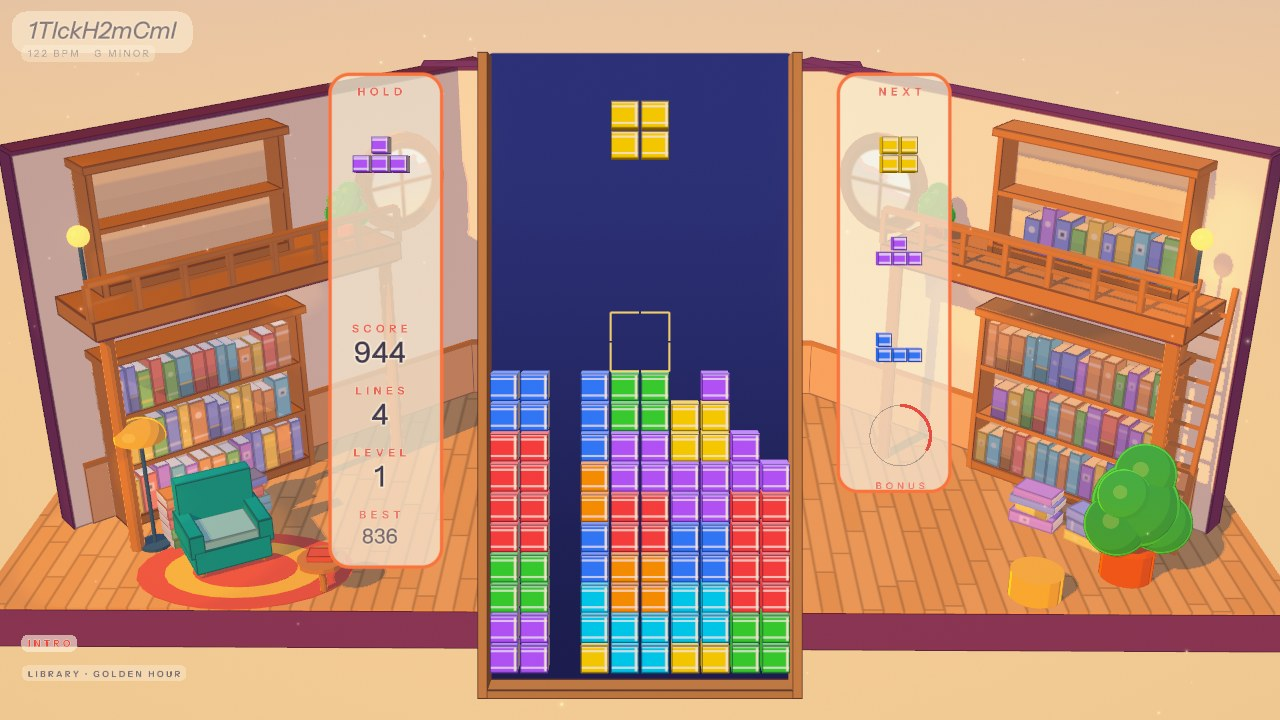
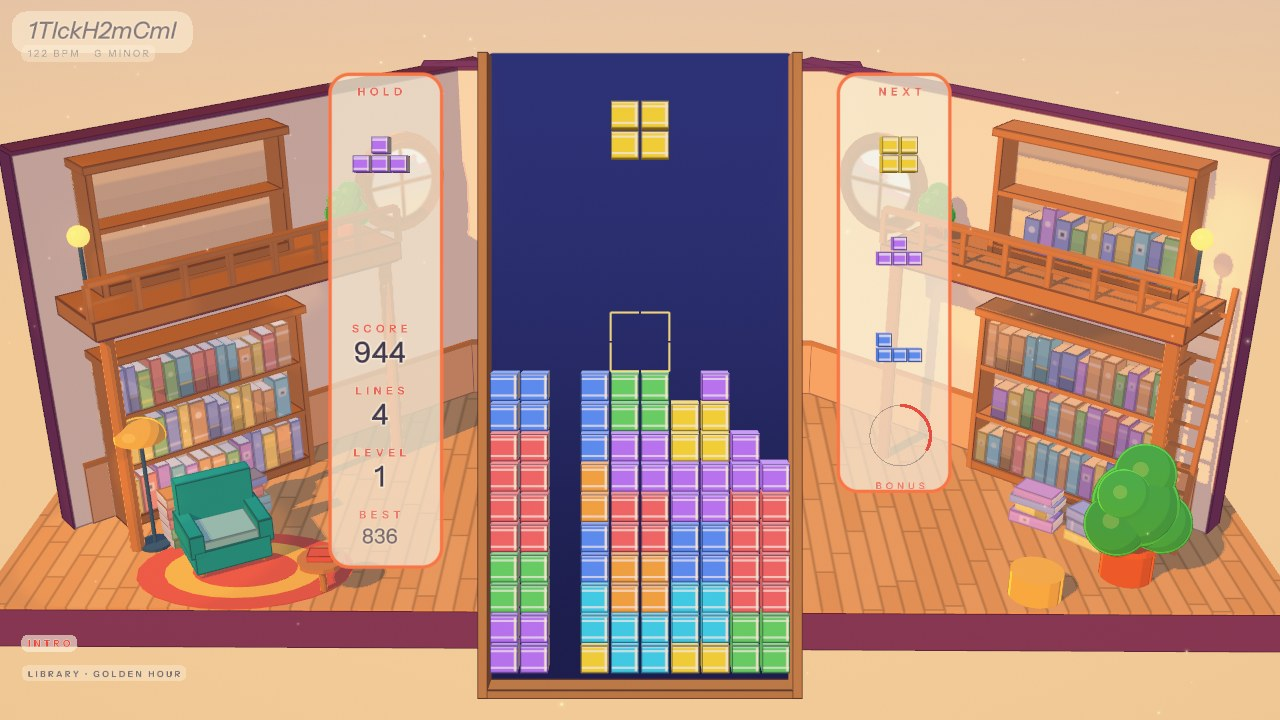
LIBRARY: the flying books read: a slow arc out through the open room in front of their shelf, bigger and in their full color with a soft glow and a ribbon of light, a pulse where they land; the pieces a gentle step toward pastel
Claude-Session: https://claude.ai/code/session_01TRpCVe8qgHvBr5qwovmpX7

diff --git a/src/universes/library/library.cpp b/src/universes/library/library.cpp
@@ -507,7 +507,13 @@ void LibraryUniverse::setSong(const SongLook& t, float seconds) {
     variant_ = v;
     const VariantDef& V = VARIANTS[v];
     Palette& P = pal_;
-    for (int i = 0; i < 7; i++) P.piece[i] = lin(V.piece[i]);
+    // the pieces a gentle step toward pastel (lifted toward white in sRGB, a hair less saturated): same hues, still
+    // bright against the deep well, just not flashy
+    for (int i = 0; i < 7; i++) {
+        const vec3 c = hex(V.piece[i]);
+        const float l = dot(c, vec3(0.299f, 0.587f, 0.114f));
+        P.piece[i] = ugl::toLinear(lerp(lerp(c, vec3(l), 0.08f), vec3(1.f), 0.17f));
+    }
     P.oak = lin(V.oak); P.bay = lin(V.bay); P.wall = lin(V.wall); P.wall2 = lin(V.wall2); P.cut = lin(V.cut); P.floor = lin(V.floor);
     P.floorB = lin(V.floorB); P.steel = lin(V.steel); P.paper = lin(V.paper); P.skyA = lin(V.skyA); P.skyB = lin(V.skyB);
     P.ambSky = lin(V.ambSky) * V.ambK; P.ambGround = lin(V.ambGround) * V.ambK; P.key = lin(V.key) * V.keyK; P.led = lin(V.led);
@@ -665,7 +671,7 @@ bool LibraryUniverse::shelve(int type, uint32_t seed) {
 // A book as an instance: centered at c in its frame (along / up / out), k its size, grown from its foot by `grow`.
 // The shelved books keep to the pieces' colors, muted toward the walls so the board stays the brightest thing.
 void LibraryUniverse::pushBook(std::vector<Inst>& out, const Group& g, const vec3& c, const vec3& along, const vec3& outD, float k,
-                               float grow, float glow, int index) {
+                               float grow, float glow, int index, float vivid) {
     if (grow <= 0.001f) return;
     const float hx = g.hx * k * grow, hy = g.hy * k * grow, hd = g.hd * k * grow;
     const vec3 foot = c - UP * (g.hy * k);
@@ -674,7 +680,8 @@ void LibraryUniverse::pushBook(std::vector<Inst>& out, const Group& g, const vec
     const vec3 X = g.lying ? UP * hy : along * hx;
     const vec3 Y = g.lying ? along * hx : UP * hy;
     const vec3 Z = outD * hd;
-    const vec3 col = lerp(pieceColor(g.type), pal_.wall, 0.38f) * (0.9f * g.tone);
+    // (in flight, vivid: its piece's full color)
+    const vec3 col = lerp(lerp(pieceColor(g.type), pal_.wall, 0.38f) * (0.9f * g.tone), pieceColor(g.type), vivid);
     Inst in;
     in.c[0] = cc.x; in.c[1] = cc.y; in.c[2] = cc.z; in.c[3] = (float)M_BOOK;
     in.x[0] = X.x; in.x[1] = X.y; in.x[2] = X.z; in.x[3] = (float)g.style;
@@ -1245,8 +1252,16 @@ void LibraryUniverse::render(const Frame& f, GLuint fbo) {
         pushGroup(dyn_[MESH_BOX], i, a > 0.6f ? 1.f : easeOutBack(a / 0.5f), 0.5f * std::exp(-std::max(0.f, a - 0.6f) * 1.4f));
     }
 
-    // ---- Flights: a cleared line's books, from behind their cells' places in the well to their places in the room,
-    // only ever going deeper; they turn over once on the way
+    // ---- Flights: a cleared line's books, from behind their cells' places in the well out into the open room and
+    // into their places. A slow, legible arc: out from behind the well, a glide through the room in front of their
+    // shelf, then in; bigger than life on the way, in their piece's full color with a soft glow and a short ribbon of
+    // light behind them, taking on their shelf tint as they land. (The room is drawn under the board and the HUD, so
+    // nothing of this ever passes in front of them.)
+    auto flightAt = [&](const Flight& fl, const Group& g, float s) {
+        const float e = s * s * (3.f - 2.f * s);
+        const float u = 1.f - e;
+        return fl.p0 * (u * u * u) + fl.c1 * (3.f * u * u * e) + fl.c2 * (3.f * u * e * e) + g.c * (e * e * e);
+    };
     for (auto it = flights_.begin(); it != flights_.end();) {
         Flight& fl = *it;
         fl.t += wdt;
@@ -1266,28 +1281,56 @@ void LibraryUniverse::render(const Frame& f, GLuint fbo) {
             fl.p0 = eyeW_ + dir * (d0 / std::max(0.2f, dot(dir, fwdW_)));
             fl.k0 = 2.f * halfNdc * d0 * tanW_ / std::max(0.05f, 2.f * g.hy);
             fl.out0 = normalize(vec3(-fwdW_.x, 0.f, -fwdW_.z));
-            fl.dur = 1.1f + 0.25f * std::log2(1.f + length(oT - fl.p0) / 2.f);
+            // the glide: a point out in the room in front of its place (on the open side of the screen, past the
+            // HUD's columns), reached through a rise beside the well
+            const vec3 front = oT + g.out * 1.9f + UP * 0.9f;
+            fl.c2 = front;
+            fl.c1 = lerp(fl.p0, front, 0.55f) + UP * 1.6f;
+            fl.dur = 2.0f + 0.15f * std::log2(1.f + length(oT - fl.p0) / 4.f);
         }
         const float s = saturate(fl.t / fl.dur);
         if (s >= 1.f) {
             g.t0 = worldTime_ - 0.6f; // in its place, full size, its light fading from now
+            g.landT = worldTime_;
             it = flights_.erase(it);
             continue;
         }
         if (!f.bare) {
             const float e = s * s * (3.f - 2.f * s);
-            const float L = length(oT - fl.p0);
-            const vec3 p = lerp(fl.p0, oT, e) + UP * (0.18f * L * std::sin(PI * e));
+            const vec3 p = flightAt(fl, g, s);
             // its spine turns from us toward its place, once round on the way
-            const float turn = fl.spin * TAU * (1.f - smoothstepf(0.f, 0.85f, s));
-            const vec3 o0 = normalize(lerp(fl.out0, g.out, smoothstepf(0.f, 0.85f, s)));
+            const float turn = fl.spin * TAU * (1.f - smoothstepf(0.f, 0.8f, s));
+            const vec3 o0 = normalize(lerp(fl.out0, g.out, smoothstepf(0.f, 0.8f, s)));
             const vec3 a0 = normalize(cross(UP, o0));
             const vec3 ou = o0 * std::cos(turn) + a0 * std::sin(turn);
             vec3 al = normalize(cross(UP, ou));
             if (dot(cross(UP, g.out), g.along) < 0.f) al = al * -1.f;
-            pushBook(dyn_[MESH_BOX], g, p, al, ou, lerpf(fl.k0, 1.f, e), 1.f, 0.3f, fl.group);
+            const float big = 1.f + 0.7f * std::sin(PI * std::min(1.f, e * 1.15f));
+            const float land = smoothstepf(0.8f, 1.f, s);
+            pushBook(dyn_[MESH_BOX], g, p, al, ou, lerpf(fl.k0, 1.f, e) * big, 1.f, 0.3f * (1.f - land) + 0.15f, fl.group, 1.f - land);
+            // the ribbon of light behind it
+            const vec3 pc = pieceColor(g.type);
+            const vec3 rc = lerp(pc, vec3(1.f), 0.35f);
+            for (int k = 1; k <= 12; k++) {
+                const float sk = s - k * 0.018f;
+                if (sk <= 0.02f) break;
+                const vec3 q = flightAt(fl, g, sk);
+                const float fade = (1.f - k / 13.f) * (1.f - land);
+                sprites_.push_back({{q.x, q.y, q.z, 0.2f * (1.f - 0.5f * k / 12.f)}, {rc.x, rc.y, rc.z, 0.9f * fade * fade}});
+            }
+            sprites_.push_back({{p.x, p.y, p.z, 0.55f}, {rc.x, rc.y, rc.z, 0.5f * (1.f - land)}});
         }
         ++it;
+    }
+    // ---- a soft pulse of light where each book lands, so you see where it went
+    for (int i = std::max(0, nG - 64); i < nG; i++) {
+        const Group& g = groups_[i];
+        const float a = worldTime_ - g.landT;
+        if (a < 0.f || a > 1.f) continue;
+        const vec3 rc = lerp(pieceColor(g.type), vec3(1.f), 0.4f);
+        const float k = 1.f - a;
+        const vec3 p = g.c + g.out * 0.25f;
+        sprites_.push_back({{p.x, p.y, p.z, 0.4f + 0.6f * a}, {rc.x, rc.y, rc.z, 1.4f * k * k}});
     }
 
     // ---- The drop: loose pages fluttering up from the bookcases, behind the well
@@ -1681,7 +1724,7 @@ void LibraryUniverse::render(const Frame& f, GLuint fbo) {
     glActiveTexture(GL_TEXTURE0);
     set1f(progFinal_, "uBloomK", (0.45f + 0.1f * wp + 0.12f * dropAmt_) * (1.f + 0.4f * slow_));
     set1f(progFinal_, "uExposure", P.exposure);
-    set1f(progFinal_, "uSatF", 1.1f + 0.05f * wp + 0.06f * dropAmt_);
+    set1f(progFinal_, "uSatF", 1.05f + 0.04f * wp + 0.05f * dropAmt_);
     set1f(progFinal_, "uSlow", slow_ * 0.5f);
     set3f(progFinal_, "uSlowTint", slowTint);
     set3f(progFinal_, "uLift", vec3(0.f));

diff --git a/src/universes/library/library.hpp b/src/universes/library/library.hpp
@@ -103,6 +103,7 @@ private:
         bool lying = false;
         int level = 0, style = 0;
         float tone = 1.f;
+        float landT = -100.f; // world time it landed (its pulse of light)
     };
     std::vector<Group> groups_;
     bool place(Group& g); // its place: the next free one (false: the room is full)
@@ -113,7 +114,7 @@ private:
     GLuint shelfVao_ = 0, shelfVbo_ = 0;
     bool shelve(int type, uint32_t seed);
     void pushBook(std::vector<Inst>& out, const Group& g, const vec3& c, const vec3& along, const vec3& outD, float k, float grow,
-                  float glow, int index);
+                  float glow, int index, float vivid = 0.f);
     // features: unlocked when their first run is used, then grown in
     bool featUnlocked_[F_COUNT_] = {};
     float featGrow_[F_COUNT_] = {};
@@ -127,6 +128,7 @@ private:
         vec3 p0, out0;
         float k0 = 0.f;
         float spin = 0.f;
+        vec3 c1, c2;           // its arc's control points (with p0 and its place)
     };
     std::vector<Flight> flights_;
     void fly(int type, uint32_t seed, const vec3& board, float delay);

diff --git a/docs/universes.md b/docs/universes.md
@@ -415,11 +415,11 @@ The pieces are panels of colored light: satin color lit from the top left, a lin
 
 The blocks are books, and every cleared line brings two big books to a small, cosy library room that fills slowly with the game, in 3D (code in `src/universes/library/`). The room is a diorama, a tabletop model seen from above through a long lens and framed around the well, drawn as a toon picture book in the spirit of the 3D Zelda games (Link's Awakening): a thick floor slab and walls cut in section (their cut a deep color), chunky painted furniture, cel shading in crisp bands with a cool colored shade, soft dark ink along the edges, round friendly shapes. It is calm and lower in contrast than the board: calm walls with large empty areas, few, big bookcases, big books in the pieces' colors muted toward the walls.
 
-The board stays a clean Tetris board: each cell is one toy block in its piece's saturated color, separated from its neighbors by a clear gap. The block is a bound volume with its spine toward us: a bright bevel band at its head and a shaded one at its foot, two cream rules, its pages showing in a narrow strip down its right side, its top a lighter band, its edges inked in a dark shade of its own color. The board's camera is raised a little and shifted back down, so the board keeps its pixels and the blocks' tops show. The well is a chunky painted frame over one deep, saturated ground (indigo, navy, deep teal, night blue) that all seven piece colors stand out against; the ghost is an outline in the piece's color. The HUD sits on light, see-through rounded cards edged in the variant's accent (the room shows through them, the piece previews on top), the corner texts on small rounded tags.
+The board stays a clean Tetris board: each cell is one toy block in its piece's color (bright, a gentle step toward pastel), separated from its neighbors by a clear gap. The block is a bound volume with its spine toward us: a bright bevel band at its head and a shaded one at its foot, two cream rules, its pages showing in a narrow strip down its right side, its top a lighter band, its edges inked in a dark shade of its own color. The board's camera is raised a little and shifted back down, so the board keeps its pixels and the blocks' tops show. The well is a chunky painted frame over one deep, saturated ground (indigo, navy, deep teal, night blue) that all seven piece colors stand out against; the ghost is an outline in the piece's color. The HUD sits on light, see-through rounded cards edged in the variant's accent (the room shows through them, the piece previews on top), the corner texts on small rounded tags.
 
 **The room**: a short back wall behind the well and two long walls angled toward us, on a plank floor. On each angled wall, a big three-shelf bookcase and, nearer the back, a round window with the sky and a round wall lamp. At the front left a reading nook (an oval rug, a chunky armchair, a floor lamp with a round shade, a round side table); at the front right a big round bush in a pot and a pouf.
 
-**A clear**: the row's blocks dissolve into their own light in about a quarter of a second, where they stand, before the stack above comes down. Two of each cleared line's cells send a book to the room: they leave from behind the cells' places on the board, at a depth behind the well, and only ever go deeper (behind the well's ground and the HUD's columns, never in front of the board, the falling piece or the HUD), turning over once on the way, growing to their size, and settle in their place with a soft glow. **Every book in the room came from a cleared line**, placed in the order they came and never moved again. The room fills slowly, in order (some 100 lines in all, two or three songs): the two big bookcases shelf by shelf from the bottom, right and left in turn; when the top shelves are reached a ladder appears; then piles of books lying on the floor in front of the bookcases; then a mezzanine grows along both angled walls (on round columns, with a low rail, a lamp, a little bush and its own bookcases); then the mezzanine's shelves and two more bookcases at the back fill in turn. Each new piece of furniture grows in from its floor (a little toy overshoot) when it is first needed. Every book is one simple box, its spine with a light band, a dark title or a round label.
+**A clear**: the row's blocks dissolve into their own light in about a quarter of a second, where they stand, before the stack above comes down. Two of each cleared line's cells send a book to the room, on a slow, legible arc of about two seconds: out from behind the cell's place in the well, a rise beside the board, then a glide through the open room in front of its shelf (past the HUD's columns) and in. On the way it is bigger than life, in its piece's full color with a soft glow and a short ribbon of light trailing behind it, turning over once; it takes on its muted shelf tint as it lands, and a soft pulse of light marks the place it went. The room is drawn under the board and the HUD, so none of this ever passes in front of the well, the stack or the HUD. **Every book in the room came from a cleared line**, placed in the order they came and never moved again. The room fills slowly, in order (some 100 lines in all, two or three songs): the two big bookcases shelf by shelf from the bottom, right and left in turn; when the top shelves are reached a ladder appears; then piles of books lying on the floor in front of the bookcases; then a mezzanine grows along both angled walls (on round columns, with a low rail, a lamp, a little bush and its own bookcases); then the mezzanine's shelves and two more bookcases at the back fill in turn. Each new piece of furniture grows in from its floor (a little toy overshoot) when it is first needed. Every book is one simple box, its spine with a light band, a dark title or a round label.
 
 The song: dust drifts in the light; the lamps follow the music (a little brighter at a peak, lifted by the kicks). **The drop** (a real one only, not a chorus: the HUD's section, else the music's pace) makes the shelves breathe: on every beat a wave rolls along each shelf, the shelves alternating directions, the books it passes sliding out and tipping their heads forward, lit for a moment, then gliding back exactly into place; loose pages flutter up from the bookcases into the room; a soft light runs slowly along the collection in the order it came (a Tetris runs one light along it). All of it stays behind the well. Slow motion is blue hour (the sun and the sky cooled and lowered). Game over topples the blocks out of the bottom of the well, away from us. It leaves and enters through the bridge.
 
